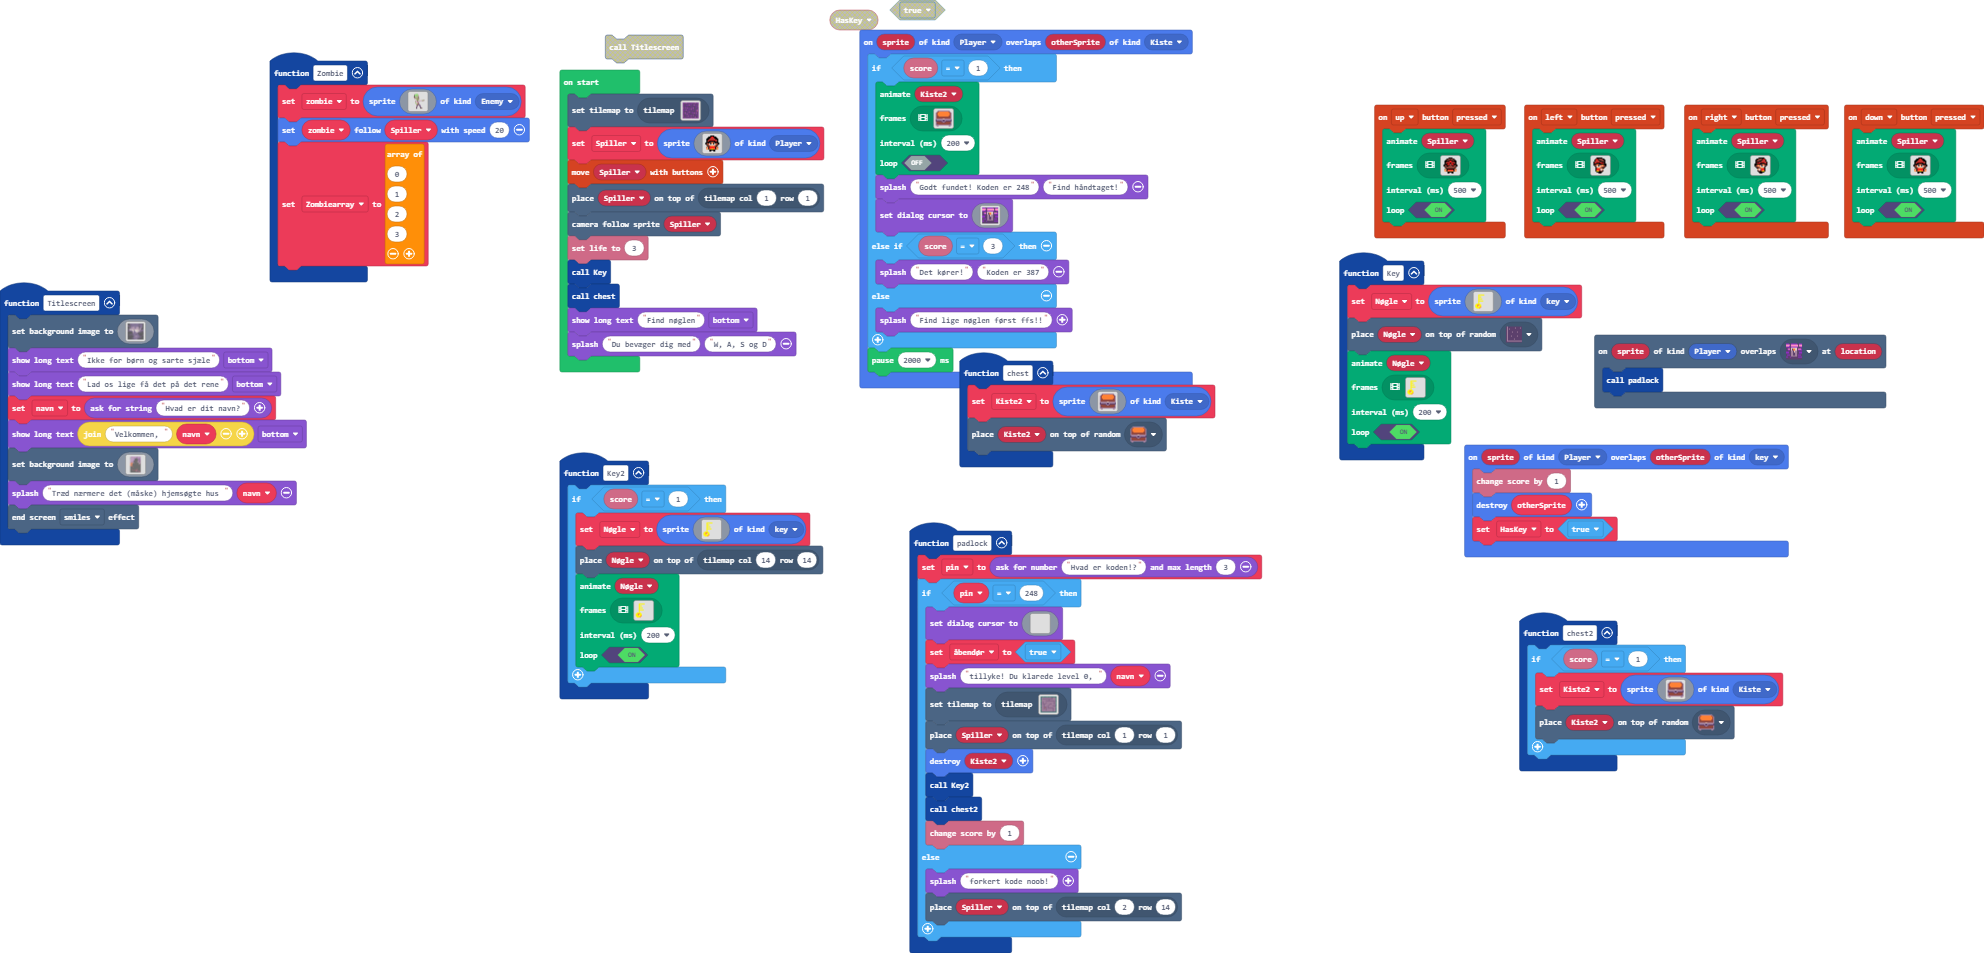
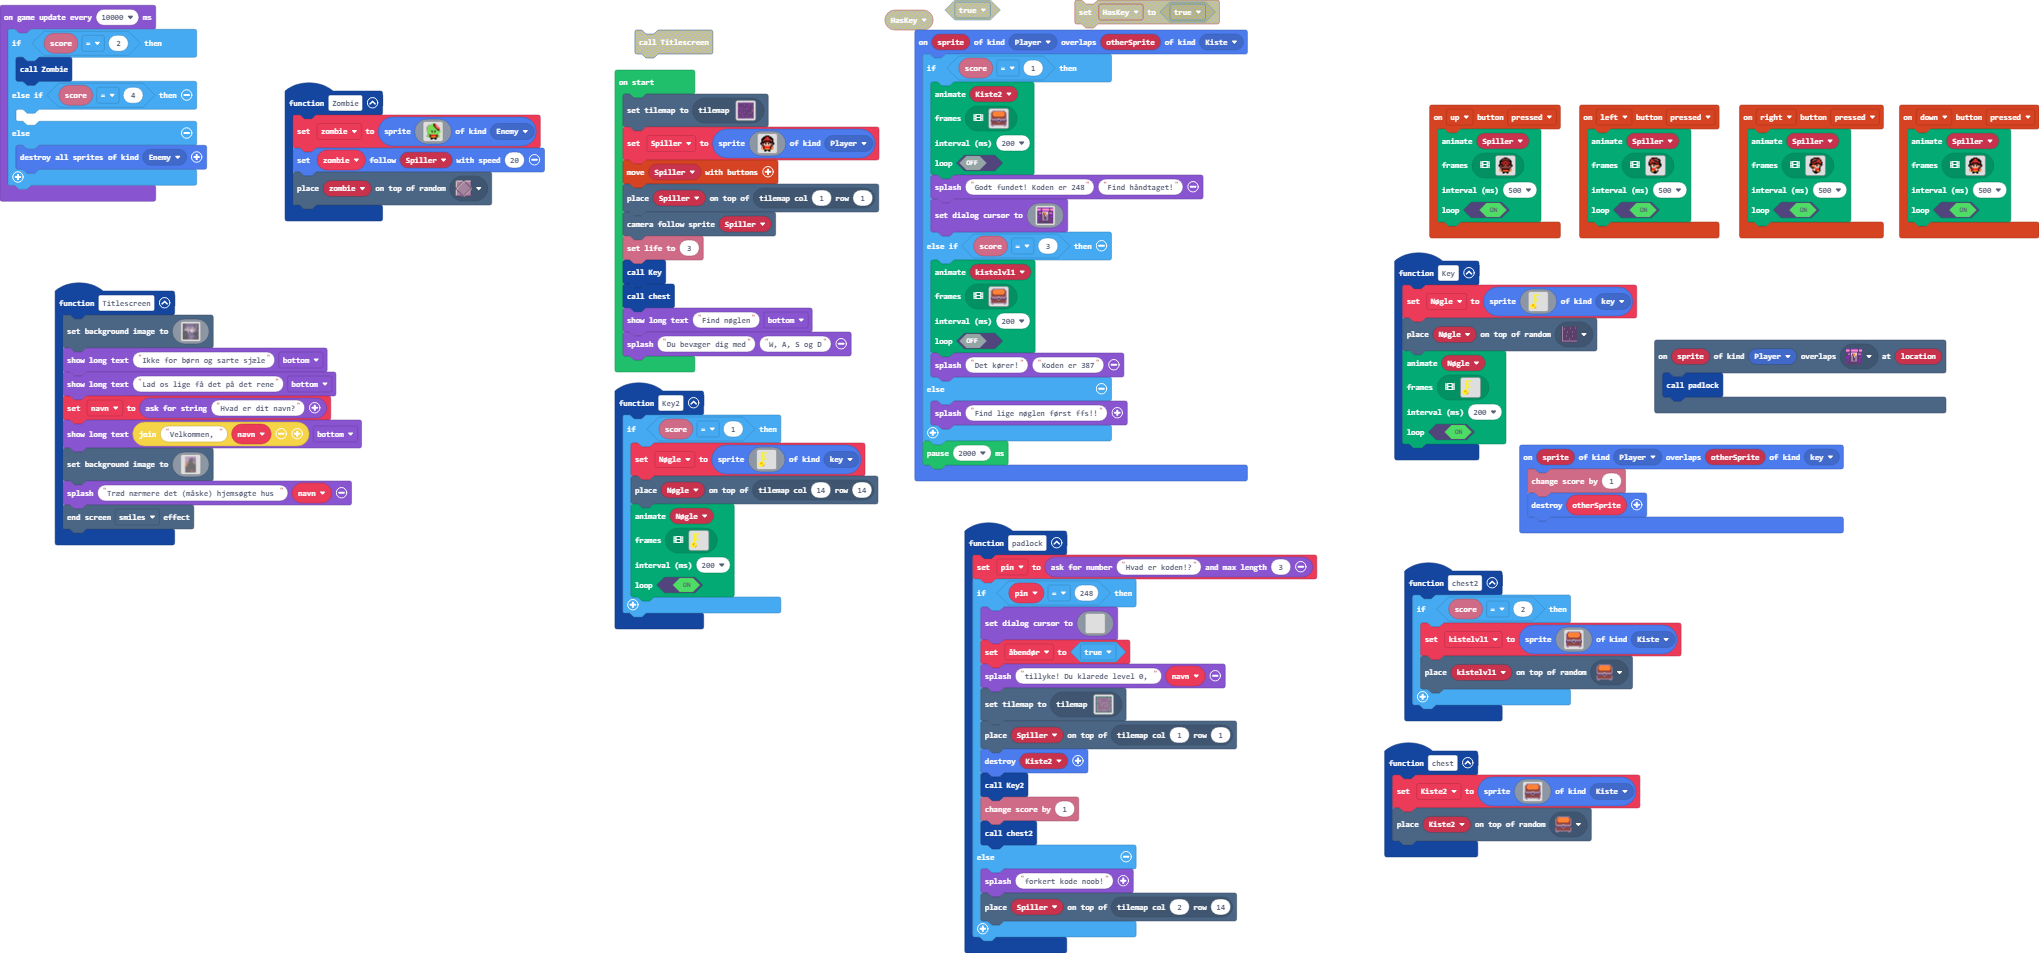
Update main.blocks, main.ts, tilemap.g.jres, tilemap.g.ts, images.g.jres, images.g.ts

Changed region(s): [[0.0, 0.0, 0.6562, 1.0], [0.6562, 0.0913, 1.0, 0.9129], [0.0, 0.2739, 0.1875, 0.5782]]

diff --git a/tilemap.g.ts b/tilemap.g.ts
@@ -169,8 +169,46 @@ namespace myTiles {
 . . . . . . . . . . . . . . . . 
 . . . . . . . . . . . . . . . . 
 `, [myTiles.transparency16], TileScale.Sixteen);
+            case "level10":
+            case "level10":return tiles.createTilemap(hex`1000100000000000000000000000000000000000000000000000000000000000000000000000000000000000000000000000000000000000000000000000000000000000000000000000000000000000000000000000000000000000000000000000000000000000000000000000000000000000000000000000000000000000000000000000000000000000000000000000000000000000000000000000000000000000000000000000000000000000000000000000000000000000000000000000000000000000000000000000000000000000000000000000000000000000000000000000000000000000000000000000000000000000000000000000000000000000`, img`
+. . . . . . . . . . . . . . . . 
+. . . . . . . . . . . . . . . . 
+. . . . . . . . . . . . . . . . 
+. . . . . . . . . . . . . . . . 
+. . . . . . . . . . . . . . . . 
+. . . . . . . . . . . . . . . . 
+. . . . . . . . . . . . . . . . 
+. . . . . . . . . . . . . . . . 
+. . . . . . . . . . . . . . . . 
+. . . . . . . . . . . . . . . . 
+. . . . . . . . . . . . . . . . 
+. . . . . . . . . . . . . . . . 
+. . . . . . . . . . . . . . . . 
+. . . . . . . . . . . . . . . . 
+. . . . . . . . . . . . . . . . 
+. . . . . . . . . . . . . . . . 
+`, [myTiles.transparency16], TileScale.Sixteen);
+            case "level11":
+            case "level11":return tiles.createTilemap(hex`1000100000000000000000000000000000000000000000000000000000000000000000000000000000000000000000000000000000000000000000000000000000000000000000000000000000000000000000000000000000000000000000000000000000000000000000000000000000000000000000000000000000000000000000000000000000000000000000000000000000000000000000000000000000000000000000000000000000000000000000000000000000000000000000000000000000000000000000000000000000000000000000000000000000000000000000000000000000000000000000000000000000000000000000000000000000000000`, img`
+. . . . . . . . . . . . . . . . 
+. . . . . . . . . . . . . . . . 
+. . . . . . . . . . . . . . . . 
+. . . . . . . . . . . . . . . . 
+. . . . . . . . . . . . . . . . 
+. . . . . . . . . . . . . . . . 
+. . . . . . . . . . . . . . . . 
+. . . . . . . . . . . . . . . . 
+. . . . . . . . . . . . . . . . 
+. . . . . . . . . . . . . . . . 
+. . . . . . . . . . . . . . . . 
+. . . . . . . . . . . . . . . . 
+. . . . . . . . . . . . . . . . 
+. . . . . . . . . . . . . . . . 
+. . . . . . . . . . . . . . . . 
+. . . . . . . . . . . . . . . . 
+`, [myTiles.transparency16], TileScale.Sixteen);
             case "level 1":
[2 lines of base64/hex data omitted]
 2 2 2 2 2 2 2 2 2 2 2 2 2 2 2 2 
 2 . . . . . . . . . . 2 . . . 2 
 2 . 2 2 2 2 2 2 2 2 2 2 . . . 2 

diff --git a/main.ts b/main.ts
@@ -39,14 +39,9 @@ controller.left.onEvent(ControllerButtonEvent.Pressed, function () {
     )
 })
 function Zombie () {
-    zombie = sprites.create(assets.image`zombie`, SpriteKind.Enemy)
+    zombie = sprites.create(assets.image`zombie2`, SpriteKind.Enemy)
     zombie.follow(Spiller, 20)
-    Zombiearray = [
-    0,
-    1,
-    2,
-    3
-    ]
+    tiles.placeOnRandomTile(zombie, sprites.dungeon.floorDarkDiamond)
 }
 function chest () {
     Kiste2 = sprites.create(assets.image`LukketKiste`, SpriteKind.Kiste)
@@ -83,6 +78,12 @@ sprites.onOverlap(SpriteKind.Player, SpriteKind.Kiste, function (sprite, otherSp
         game.splash("Godt fundet! Koden er 248", "Find håndtaget!")
         game.setDialogCursor(assets.image`pad`)
     } else if (info.score() == 3) {
+        animation.runImageAnimation(
+        kistelvl1,
+        assets.animation`kisteanimation`,
+        200,
+        false
+        )
         game.splash("Det kører!", "Koden er 387")
     } else {
         game.splash("Find lige nøglen først ffs!!")
@@ -99,17 +100,17 @@ function padlock () {
         tiles.placeOnTile(Spiller, tiles.getTileLocation(1, 1))
         sprites.destroy(Kiste2)
         Key2()
-        chest2()
         info.changeScoreBy(1)
+        chest2()
     } else {
         game.splash("forkert kode noob!")
         tiles.placeOnTile(Spiller, tiles.getTileLocation(2, 14))
     }
 }
 function chest2 () {
-    if (info.score() == 1) {
-        Kiste2 = sprites.create(assets.image`LukketKiste`, SpriteKind.Kiste)
-        tiles.placeOnRandomTile(Kiste2, sprites.dungeon.chestClosed)
+    if (info.score() == 2) {
+        kistelvl1 = sprites.create(assets.image`LukketKiste`, SpriteKind.Kiste)
+        tiles.placeOnRandomTile(kistelvl1, sprites.dungeon.chestClosed)
     }
 }
 controller.down.onEvent(ControllerButtonEvent.Pressed, function () {
@@ -126,13 +127,11 @@ scene.onOverlapTile(SpriteKind.Player, sprites.dungeon.purpleSwitchUp, function 
 sprites.onOverlap(SpriteKind.Player, SpriteKind.key, function (sprite, otherSprite) {
     info.changeScoreBy(1)
     sprites.destroy(otherSprite)
-    HasKey = true
 })
-let HasKey = false
 let åbendør = false
 let pin = 0
+let kistelvl1: Sprite = null
 let Kiste2: Sprite = null
-let Zombiearray: number[] = []
 let zombie: Sprite = null
 let Nøgle: Sprite = null
 let navn = ""
@@ -164,3 +163,12 @@ Key()
 chest()
 game.showLongText("Find nøglen", DialogLayout.Bottom)
 game.splash("Du bevæger dig med", "W, A, S og D")
+game.onUpdateInterval(10000, function () {
+    if (info.score() == 2) {
+        Zombie()
+    } else if (info.score() == 4) {
+    	
+    } else {
+        sprites.destroyAllSpritesOfKind(SpriteKind.Enemy)
+    }
+})

diff --git a/images.g.ts b/images.g.ts
@@ -547,6 +547,25 @@ ffffffffffffffffffffffffffffffffffffffffffffffffffffffffffffffffffffffffffffffff
 .......................................
 .......................................
 `;
+            case "image7":
+            case "zombie2":return img`
+. . . . . . 7 7 f 2 . . . . . 
+. . . b 7 7 7 7 f 2 2 d . . . 
+. . b 7 7 7 7 7 f 2 d 2 d . . 
+. b 7 7 7 7 7 7 7 f 2 d 2 d . 
+. b 7 7 7 7 7 7 7 7 f 2 d 2 . 
+. b 7 7 7 7 7 7 7 7 7 f 2 2 . 
+. b 7 7 7 7 7 7 7 7 7 7 f f . 
+. 7 7 7 7 b f 7 7 f b 7 7 7 7 
+. 7 7 7 7 1 f 7 7 f 1 7 7 7 7 
+. . 7 7 7 7 7 7 7 7 7 7 7 7 . 
+. . c 7 7 7 7 7 7 7 7 7 7 . . 
+. . 7 7 f 2 2 2 2 2 2 f 7 7 . 
+. c 7 7 f 2 2 2 2 2 2 f 7 7 . 
+. . 7 7 f 4 4 5 5 4 4 f 7 7 . 
+. . . . . f f f f f f . . . . 
+. . . . . f f . . f f . . . . 
+`;
         }
         return null;
     })
@@ -904,6 +923,25 @@ b e e e e e e e e e e e e e e b
 b c e e e e e e e e e e e e c b 
 b b b b b b b b b b b b b b b b 
 . b b . . . . . . . . . . b b . 
+`];
+            case "myAnim":
+            case "anim7":return [img`
+. . . b 7 7 7 7 . . . . . . . . 
+. . d 7 7 7 7 7 b . . . . . . . 
+. . b 7 7 e 7 7 b . . . . . . . 
+. . b f e d b 7 7 . . . . . . . 
+. . d c 7 e e e e . . . . . . . 
+. . . b e 7 7 b c . . . . . . . 
+. . . . . d 7 e e b . . . . . . 
+. . . . . b 7 7 b d d d b 7 e e 
+. . . . b d d c d b b d b e c d 
+. . . . b d d e d . . . . . . . 
+. . . . 7 1 d e e . . . . . . . 
+. . . . d 7 e e e d . . . . . . 
+. . . . . d 7 e c c . . . . . . 
+. . . . . . c c d c c . . . . . 
+. . . . . . c c . . c d . . . . 
+. . . . . b c . . . c c . . . . 
 `];
         }
         return null;
